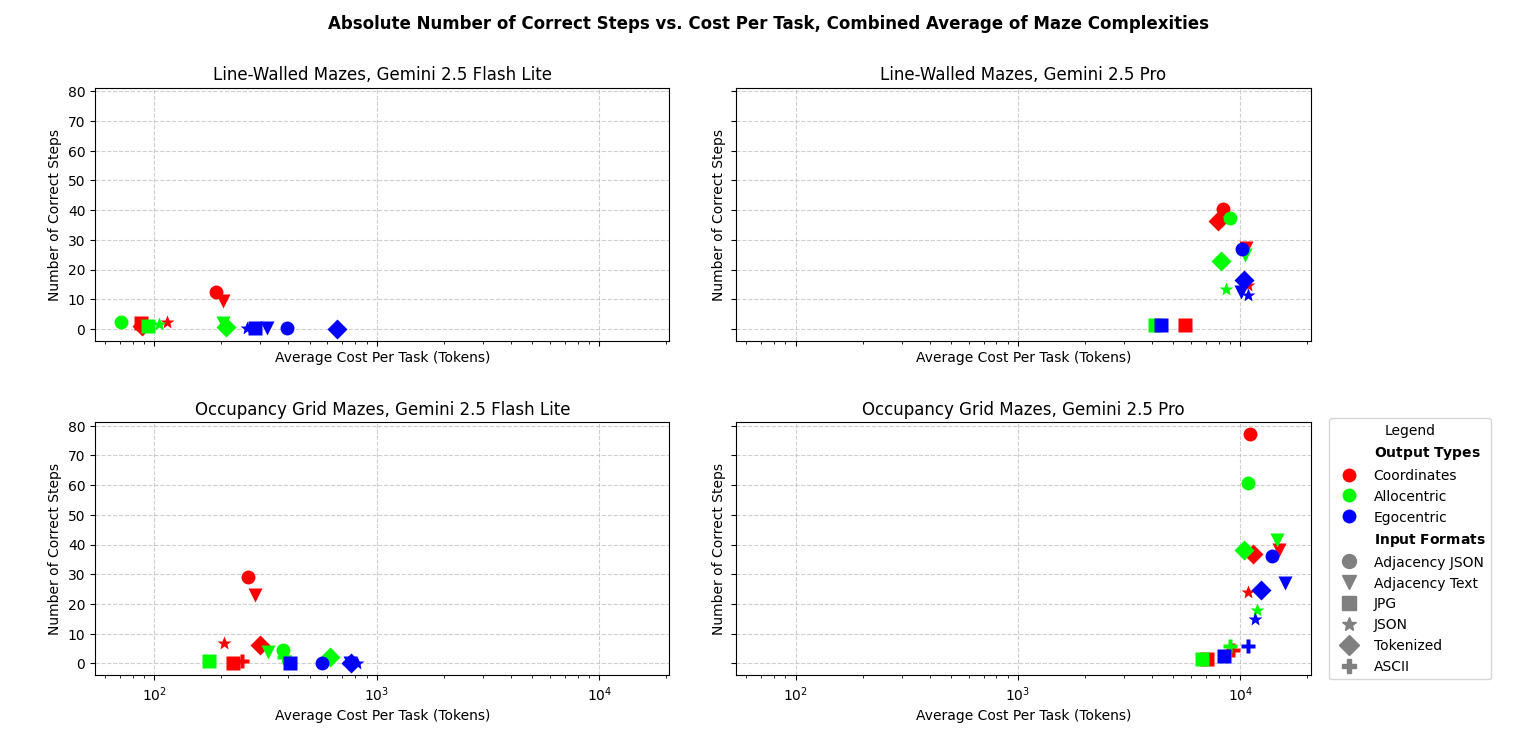
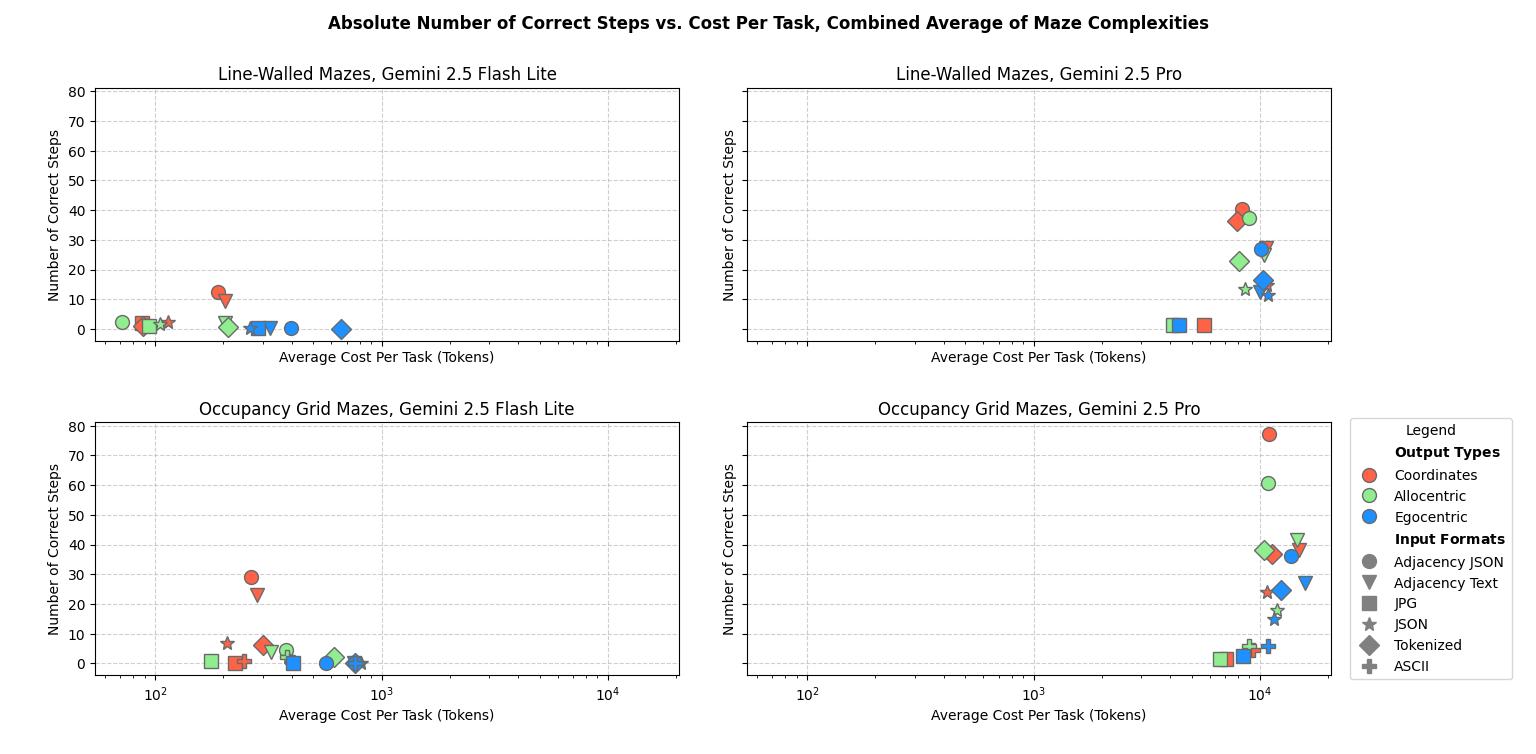
changed more visuals!!!

diff --git a/raw_score_tokens_Dataset03.py b/raw_score_tokens_Dataset03.py
@@ -1468,9 +1468,9 @@ avg_occupancy_R_ego = [[np.mean(occupancy_R_ego_adj_json_output_tokens), np.mean
 # Labels for legend
 labels_base = ["Adjacency JSON", "Adjacency Text", "JPG", "JSON", "Tokenized", "ASCII"]
 markers = ['o', 'v', 's', '*', 'D', 'P']
-red = ['red', 'red'] #light, dark
-blue = ['blue', 'blue'] #light, dark
-green = ['lime', 'lime'] #light, dark
+red = ['tomato', 'tomato']#['red', 'red'] #light, dark
+blue = ['dodgerblue','dodgerblue']#['blue', 'blue'] #light, dark
+green = ['lightgreen', 'lightgreen']#['lime', 'lime'] #light, dark
 marker_edge = ['none', 'black'] #line, occupancy
 marker_size = [10,10,10]
 testx = [1, 2, 3, 4, 5, 6]
@@ -1663,10 +1663,10 @@ plt.tight_layout(rect=[0, 0, 0.97, 1])  # leave 15% of width for legend
 # Labels for legend
 labels_base = ["Adjacency JSON", "Adjacency Text", "JPG", "JSON", "Tokenized", "ASCII"]
 markers = ['o', 'v', 's', '*', 'D', 'P']
-red = ['red', 'red'] #light, dark
-blue = ['blue', 'blue'] #light, dark
-green = ['lime', 'lime'] #light, dark
-marker_edge = ['none', 'black'] #line, occupancy
+red = ['tomato', 'tomato']#['red', 'red'] #light, dark
+blue = ['dodgerblue','dodgerblue']#['blue', 'blue'] #light, dark
+green = ['lightgreen', 'lightgreen']#['lime', 'lime'] #light, dark
+marker_edge = ['dimgrey', 'dimgrey'] #line, occupancy
 marker_size = [10,10,10]
 testx = [1, 2, 3, 4, 5, 6]
 testy = [1, 2, 3, 4, 5, 6]
@@ -1760,15 +1760,15 @@ spacer_handle = (
     Line2D([], [], marker='o', color='none', markerfacecolor='none', markersize=10)
 )
 coord_handle = (
-    Line2D([], [], marker='o', color='none', mec= 'none', markerfacecolor=red[0], markersize=10),
+    Line2D([], [], marker='o', color='none', mec= marker_edge[0], markerfacecolor=red[0], markersize=10),
     # Line2D([], [], marker='o', color='none', mec= 'none', markerfacecolor=red[1], markersize=10)
 )
 allo_handle = (
-    Line2D([], [], marker='o', color='none', mec= 'none', markerfacecolor=green[0], markersize=10),
+    Line2D([], [], marker='o', color='none', mec= marker_edge[0], markerfacecolor=green[0], markersize=10),
     # Line2D([], [], marker='o', color='none', mec= 'none', markerfacecolor=green[1], markersize=10)
 )
 ego_handle = (
-    Line2D([], [], marker='o', color='none', mec= 'none', markerfacecolor=blue[0], markersize=10),
+    Line2D([], [], marker='o', color='none', mec= marker_edge[0], markerfacecolor=blue[0], markersize=10),
     # Line2D([], [], marker='o', color='none', mec= 'none', markerfacecolor=blue[1], markersize=10)
 )
 

diff --git a/acc_token_output.py b/acc_token_output.py
@@ -1619,9 +1619,9 @@ marker_size = [10,10,10]
 # Labels for legend
 labels_base = ["Adjacency JSON", "Adjacency Text", "JPG", "JSON", "Tokenized", "ASCII"]
 markers = ['o', 'v', 's', '*', 'D', 'P']
-red = ['red', 'red'] #light, dark
-blue = ['blue', 'blue'] #light, dark
-green = ['lime', 'lime'] #light, dark
+red = ['tomato', 'tomato'] #['red', 'red'] #light, dark
+blue = ['dodgerblue', 'dodgerblue']#['blue', 'blue'] #light, dark
+green = ['lightgreen', 'lightgreen']#['lime', 'lime'] #light, dark
 marker_edge = ['none', 'black'] #line, occupancy
 marker_size = [10,10,10]
 testx = [1, 2, 3, 4, 5, 6]
@@ -1919,7 +1919,7 @@ axes[1,1].set_title("6x6 and 13x13, Gemini 2.5 Pro")
 axes[2,0].set_title("15x15 and 31x31, Gemini 2.5 Flash Lite")
 axes[2,1].set_title("15x15 and 31x31, Gemini 2.5 Pro")
 
-plt.suptitle("Performance vs. Cost Per Task", fontweight= 'bold')
+plt.suptitle("Performance vs. Cost Per Task", x=0.48,  fontweight= 'bold')
 
 plt.tight_layout(rect=[0, 0, 0.97, 1])  # leave 15% of width for legend
 

diff --git a/charts_Dataset03.py b/charts_Dataset03.py
@@ -1465,7 +1465,7 @@ labels_occ = [
 # plt.tight_layout()
 # plt.show()
 
-# ----- Plottoing all 6 accuracy plots in one figure ------------------
+# ----- use this for plotting accuracy: Plottoing all 6 accuracy plots in one figure ------------------
 
 # 1. Define the Legend Labels
 single_legend = [
